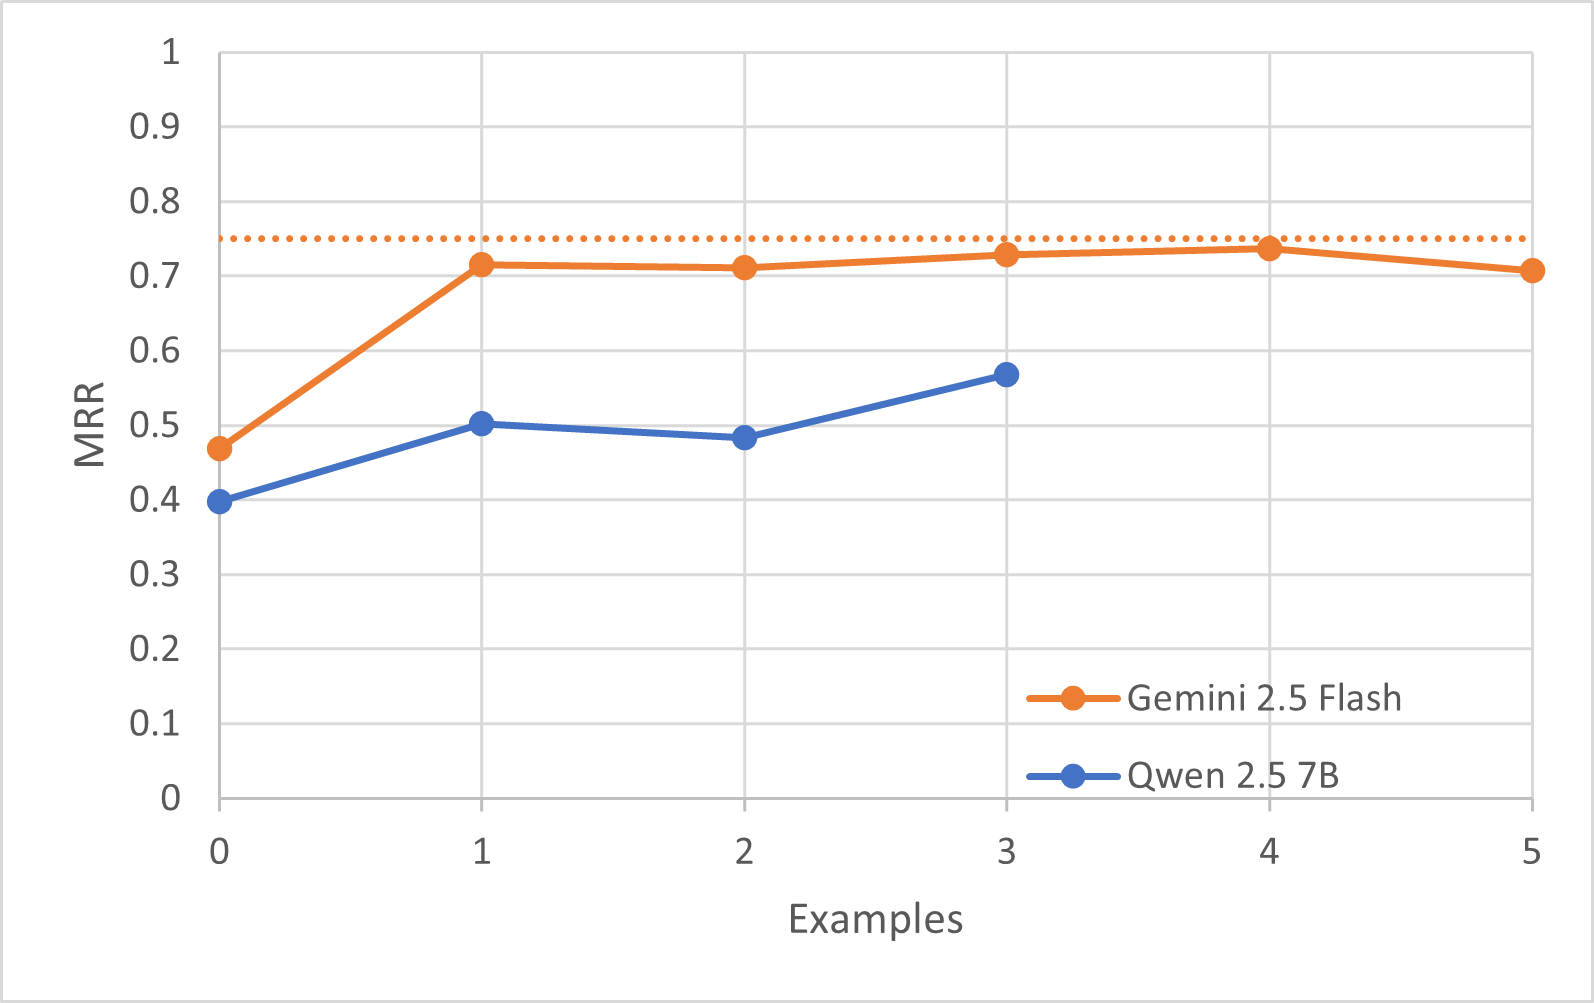
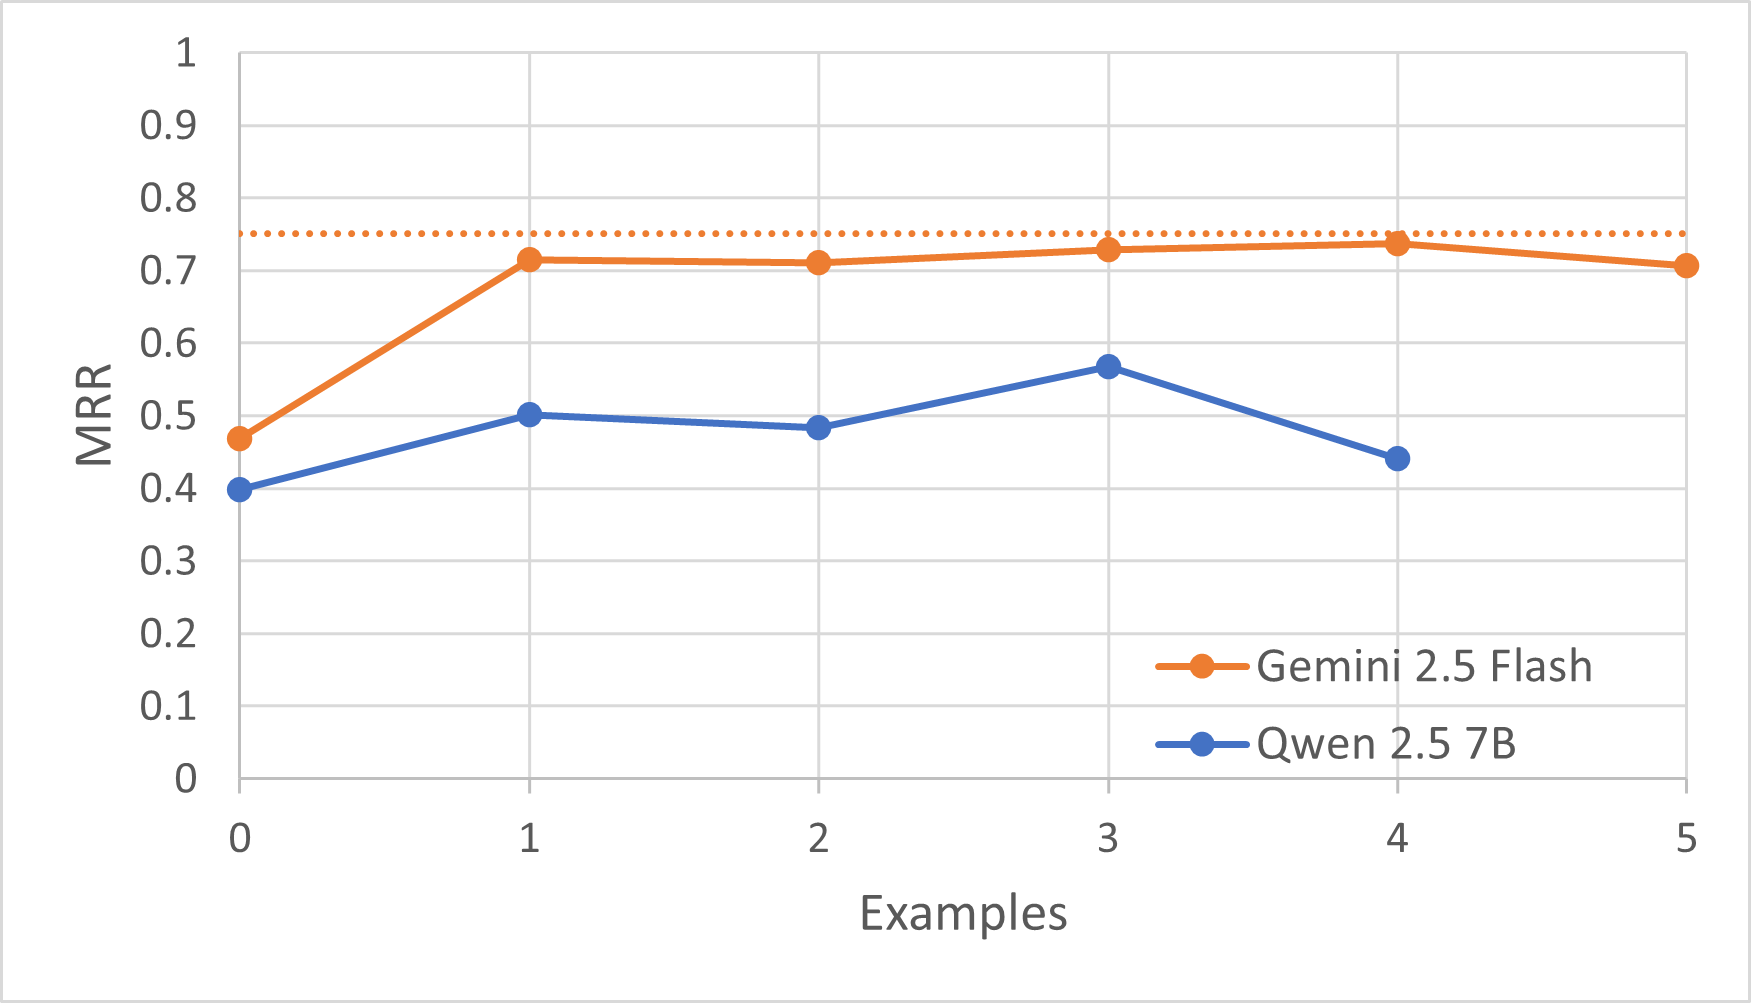
update graphs

diff --git a/paper/paper2.tex b/paper/paper2.tex
@@ -382,12 +382,9 @@ extract specific semantic information from the assembly function. The full promp
 \subsubsection{Framing and conditioning}
 
 We use a prelude that contains general information about the task at hand, and the expected response.
-Recent commercial LLMs have the ability to generate responses following a specified JSON schema. We do not
-make use of this capability when evaluating commercial models so that the results can be compared to local LLMs,
-that do not benefit from this option.
 
 Local LLMs, especially the smallest models, will sometimes generate nonsensical output. In our early experiments, the smallest local model
-evaluated (0.5B parameters) would sometimes repeat the same line of JSON until it ran out of context space, or generated invalid JSON.
+evaluated (0.5B parameters) would sometimes repeat the same line of output until it ran out of context space, or generated invalid JSON.
 To combat these artifacts, we run inference again when JSON parsing fails and increase the temperature of output token
 selection. This is done in a loop until valid JSON is generated. In our experiments, the maximal amount of trials required
 for any query to generate valid json was three, but \(95\%\) of the generated responses from the smallest model would constitute
@@ -429,7 +426,7 @@ and control flow and dispatching operations.
 
 This section identifies notable integer and floating point constants.  These could be common scalar values used by
 a specific cryptographic algorithm, or the signature bytes used by a file format or protocol. We exclude small
-values are used as struct offsets, loop counters or stack pointer adjustments.
+values that are used as offsets, loop counters or stack pointer adjustments.
 
 \subsubsection{Side effects}
 
@@ -462,12 +459,13 @@ wrapper/utility, file management, etc.
 
 To achieve the best results with our method, we utilize few-shot prompting by providing hand crafted examples along with our prompt.
 In all of our evaluations, three examples are provided, and our ablation study confirms that adding more than three examples provides
-little to no benefit. Our examples are selected from a diverse source of functions, and are varied in size and architecture to
-exemplify the space of possibilities in our evaluations.
+little to no benefit. Providing a single example or a JSON schema in the prompt is enough to achieve good results. We do not
+make use of a JSON schema because it is redundant information once examples are provided. Our examples are selected from a
+diverse source of functions, and are varied in size and architecture to exemplify the space of possibilities in our evaluations.
 
-The prompt by itself is still very performant, and should be acceptable for most applications. A surpising effect of providing examples
-is that the prompt is no longer needed for the analysis to be effective. Our results show that using enough examples with an empty system promt
-generates the same results as a standalone system prompt without examples.
+Recent commercial LLMs have the ability to generate responses following a provided JSON schema that is aside from the input prompt
+We do not make use of this capability when evaluating commercial models so that the results can be compared to local LLMs,
+that do not benefit from this option.
 
 \begin{figure}[ht]
 \centering
@@ -500,11 +498,13 @@ generates the same results as a standalone system prompt without examples.
    "memory_allocation_deallocation": false,
    "io_operations": false,
    "block_memory_operations": false,
+   "number_of_interrupts_system_calls": 0,
 -  "inferred_algorithm": "Undetermined"
 +  "inferred_algorithm": "Initialization"
 }
 \end{minted}
-\caption{Analysis of the \texttt{sha384\_init} assembly function. Comparison between its compilation for \texttt{x86-64} and \texttt{arm}.  }
+\caption{Analysis comparison of the \texttt{sha384\_init} assembly function. Comparison between the analyses of the function compiled 
+for \texttt{arm} (red) and \texttt{x86-64} (green). This pair has a similarity score of \(0.9\).}
 \label{feature-diff}
 \end{minipage}
 \end{figure}
@@ -513,19 +513,18 @@ generates the same results as a standalone system prompt without examples.
 
 ML based methods that generate an embedding for each assembly function generally compare these vectors using numerical
 methods such as cosine similarity.  Since our generated analysis is not a numerical vector but rather structured text,
-we use an alternative method to compare two assembly functions. We flatten the JSON structure into a dictionary, where the
-concatenated path to a leaf element is the key for that element. Jaccard similarity (Intesection over union) is used to
-obtain a similarity score when comparing two such dictionaries. That is, the number of identical key value pairs is
-divided by the total number of key-value pairs, giving a value between \(0\) and \(1\).
+we use an alternative method to compare two assembly functions. We flatten the JSON structure into a set, where each
+element is the full path concatenated with the value of each element in the object. Jaccard similarity (Intesection over union)
+is used to obtain a similarity score when comparing two such dictionaries. That is, the number of identical fields in the JSON
+structure is divided by the total number of elements, giving a value between \(0\) and \(1\).
 
 \subsection{Dataset}
 
 The dataset is composed of 7 binaries: busybox, coreutils, curl, image-magick, openssl, putty, and sqlite3.
-All were compiled using gcc for the following platforms: x86-64, arm, mips, powerpc.
-For each binary and platform, binary objects were generated for all optimization levels (O0 to O3),
-stripped of debug symbols. In total, this yeilds 112 different binaries to analyze.
-The binaries were dissassembled using IDA Pro and separated into individual functions, yielding \(383\ 658\) assembly functions.
-Functions consisting of less than 3 instructions were not included as part of the dataset.
+All were compiled using gcc for the following platforms: \texttt{x86-64}, \texttt{arm}, \texttt{mips}, \texttt{powerpc}.
+For each binary and platform, binary objects were generated for all optimization levels (\texttt{O0} to \texttt{O3}),
+stripped of debug symbols. The compiled binaries were dissassembled using IDA Pro and separated into individual functions,
+yielding \(383\ 658\) assembly functions. Functions consisting of less than 3 instructions were not included as part of the dataset.
 Pairs of equivalent functions from the same platform but distinct optimization level were made for cross optimization
 evaluation, and pairs from the same optimization level but different platform were formed for cross
 platform evaluation.
@@ -565,8 +564,8 @@ models were also used.
 \end{itemize}
 
 Gemini 2.5 Flash ~\cite{gemini2.5} is used to present our results. Gemini 2.5 Flash provided the best results while being cheaper than GPT 4.1 mini.
-We did not make use of the ``reasoning''
-capabilities that some of these models provide to keep a predictable token usage rate, and to match the capabilities of the local models used.
+We did not make use of the ``reasoning'' capabilities that some of these models provide to keep a predictable token usage rate, and to match the
+capabilities of the local models used.
 
 \section{Experiments}
 
@@ -713,11 +712,15 @@ for Gemini 2.5 Flash, and 0 and 1 for Qwen 2.5 7B.}
 
 By providing hand crafted examples to the large language model, we are able to increase the performance of the assembly function analysis.
 This follows the general observations behind few show prompting ~\cite{few-shot}. Providing a single example significantly increases the retrieval
-scores, but providing more than one provides very limited increases in scores. Interestingly, a smaller model
-such as Qwen 2.5 7B still sees marginal increase in MRR scores as the number of examples increases up to 3. This relates to our previous observation
+scores, but providing more than one provides very limited increases in scores. Interestingly, a smaller model such as Qwen 2.5 7B still sees
+marginal increase in MRR scores as the number of examples increases up to 3. This relates to our previous observation
 that small LLMs rely more on the provided examples than larger models. Another evidence of this is the number of invalid JSON outputs generated by
 Qwen 2.5 7B. When no examples are provided, approximately \(3\%\) of queries generate an invalid output. With only one example, no invalid
 outputs are generated, and the same applies when 2 or 3 examples are provided.
+
+Another interesting result is the fact that when providing enough examples, the system prompt has very little impact on the retrieval scores.
+This suggests that the examples themselves contain enough information for the model to perform the analysis, without being expained 
+exactly how.
 
 With our experimental configuration, providing 4 examples to Qwen 2.5 7B significantly decreases its MRR scores. That is because
 the examples almost completely use the full context window that we provide to the LLM. As such, most query assembly functions are
@@ -776,6 +779,8 @@ with equal weight.
 In a real life scenario, combining both methods should be performed by using our textual representation as a pre-filter, and then calculating
 the embedding representation. As such, the scalability and maintainability of the underlying BCSD database is maintained, while allowing flexibility
 for the underlying BCSD model.
+
+TODO: make this more precise
 
 To provide a method that keeps some of the advantages of our presented work, we use Qwen3-Embedding 4B as the embedding model for this experiment.
 As such, the combination still does not require any training or fine-tuning, as we have shown that off-the-shelf embedding models based on a LLM perform
